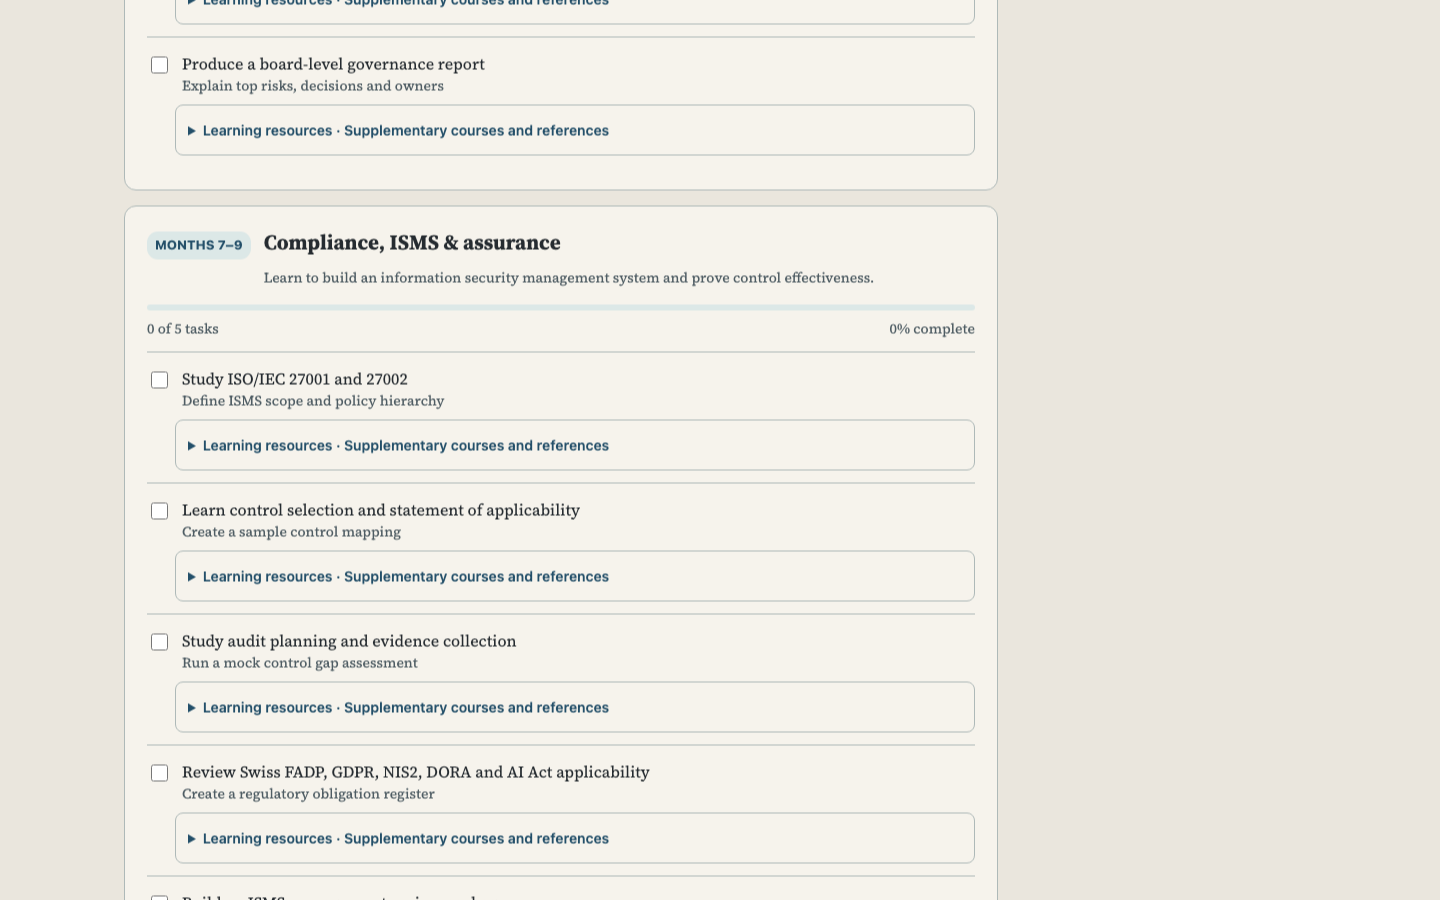
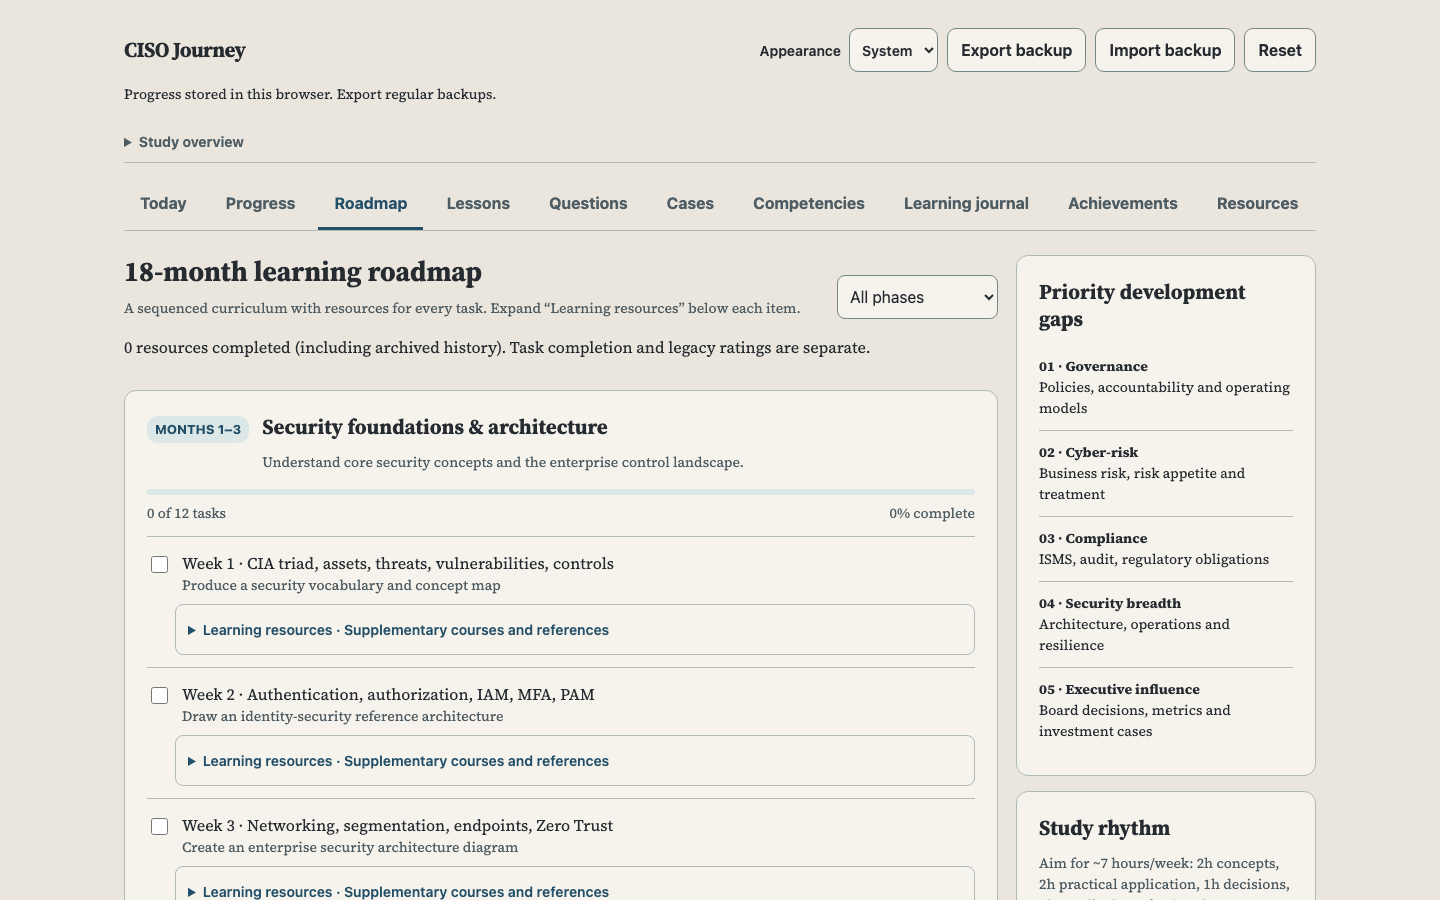
docs: refresh final UI screenshot evidence

diff --git a/docs/design/UI_HARMONIZATION.md b/docs/design/UI_HARMONIZATION.md
@@ -15,6 +15,10 @@ Mobile:   identity / controls
           supporting context
 ```
 
-Synthetic empty-storage screenshots captured locally in Chromium before and after (viewport crops): [desktop Roadmap before](ui-harmonization/before-desktop.png), [after](ui-harmonization/after-desktop.png); [dark mobile Questions before](ui-harmonization/before-mobile.png), [after](ui-harmonization/after-mobile.png). Additional full-page captures for all ten routes at 1440×900 and 390×844 in both color schemes, and 390px plus 200% CSS zoom at 720px, were captured locally in `/private/tmp/ciso-ui-evidence/`; representative views were visually inspected and contain no learner data. Page scroll width equaled viewport width for each route, theme and reflow size. The zoom check simulates 200% using CSS zoom rather than browser UI zoom; the existing browser suite also tests reader reflow at 200%.
+Synthetic empty-storage evidence: historical before viewport crops show [desktop Roadmap](ui-harmonization/before-desktop.png) and [dark mobile Questions](ui-harmonization/before-mobile.png). The refreshed after captures show light Roadmap from the top at [1440×900 desktop](ui-harmonization/after-desktop.png) and [390×844 mobile](ui-harmonization/after-mobile.png); they are different route/theme comparisons from the mobile before image. Both after images were reproduced on 2026-10-29 from runtime candidate `1e4e450ff19c77691ce04133f82d427a9b335bc4` using a separate Vite server at `127.0.0.1:5177/ciso-journey/#roadmap`, Chromium, device scale 1, system appearance resolving to light, and fresh empty browser contexts. Source Serif 4 was explicitly loaded and its font-face status confirmed as loaded before capture. Visual inspection confirms paper surfaces, selected Roadmap, all ten navigation labels visible, and three wrapped mobile navigation rows. Scroll width equals viewport width at both sizes. These replace the earlier scrolled after crops and directly show final navigation.
 
-Validation: `npm test`, `npm run typecheck`, `npm run build`, and `npm run test:browser` locally with Node 24 and cached Chromium. The first browser run passed 87/90; three tests timed out under full parallel load. A two-worker rerun of preservation and storage passed 22/22, including all three timed-out tests. The suite covers desktop/mobile Pages subpath, keyboard, review, storage/backup and progress separation flows; see PR for the exact candidate. CI remains fast. An independent task review is still required; this is not an educator/legal review.
+Additional full-page captures for all ten routes at 1440×900 and 390×844 in both color schemes, and 390px plus 200% CSS zoom at 720px, were captured locally in `/private/tmp/ciso-ui-evidence/`; representative views were visually inspected and contain no learner data. Page scroll width equaled viewport width for each route, theme and reflow size. The zoom check simulates 200% using CSS zoom rather than browser UI zoom; the existing browser suite also tests reader reflow at 200%.
+
+Original implementation validation (before independent review): `npm test`, `npm run typecheck`, `npm run build`, and `npm run test:browser` locally with Node 24 and cached Chromium. The first browser run passed 87/90; three tests timed out under full parallel load. A two-worker rerun of preservation and storage passed 22/22, including all three timed-out tests. The suite covers desktop/mobile Pages subpath, keyboard, review, storage/backup and progress separation flows; see PR for the exact candidate. CI remains fast. Final-candidate independent approval is still required; this is not an educator/legal review.
+
+Evidence correction / D020 — 2026-10-29: only this guide and the two after PNGs change from `1e4e450ff19c77691ce04133f82d427a9b335bc4`. All tracked runtime/app files, canonical content/data, tests, fixtures, scripts, browser/build configuration, CI and dependency manifests/lockfile are byte-identical to that candidate. Reuse its [independent review evidence](https://github.com/tomthemaker/ciso-journey/pull/88#issuecomment-6488936158): 163 unit tests, typecheck, build and 90/90 local browser tests with two workers, including Pages. No full test/browser rerun was needed for this documentation-only correction; fresh capture checks and `git diff --check` passed. No product decision changed; D036 remains unchanged. The updated evidence still requires fresh independent task review.
